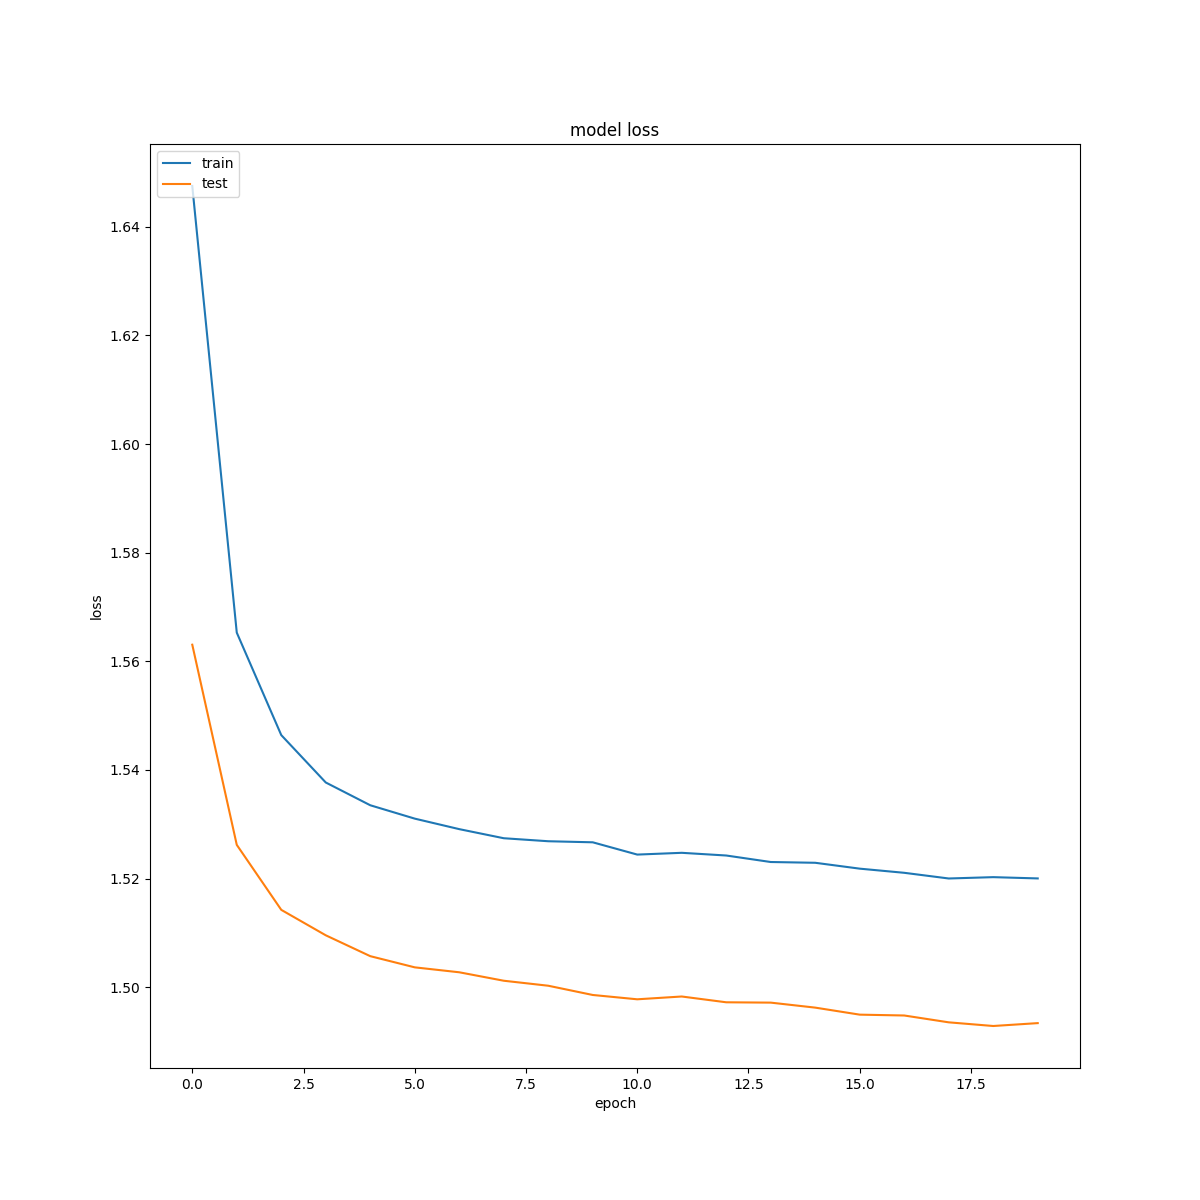
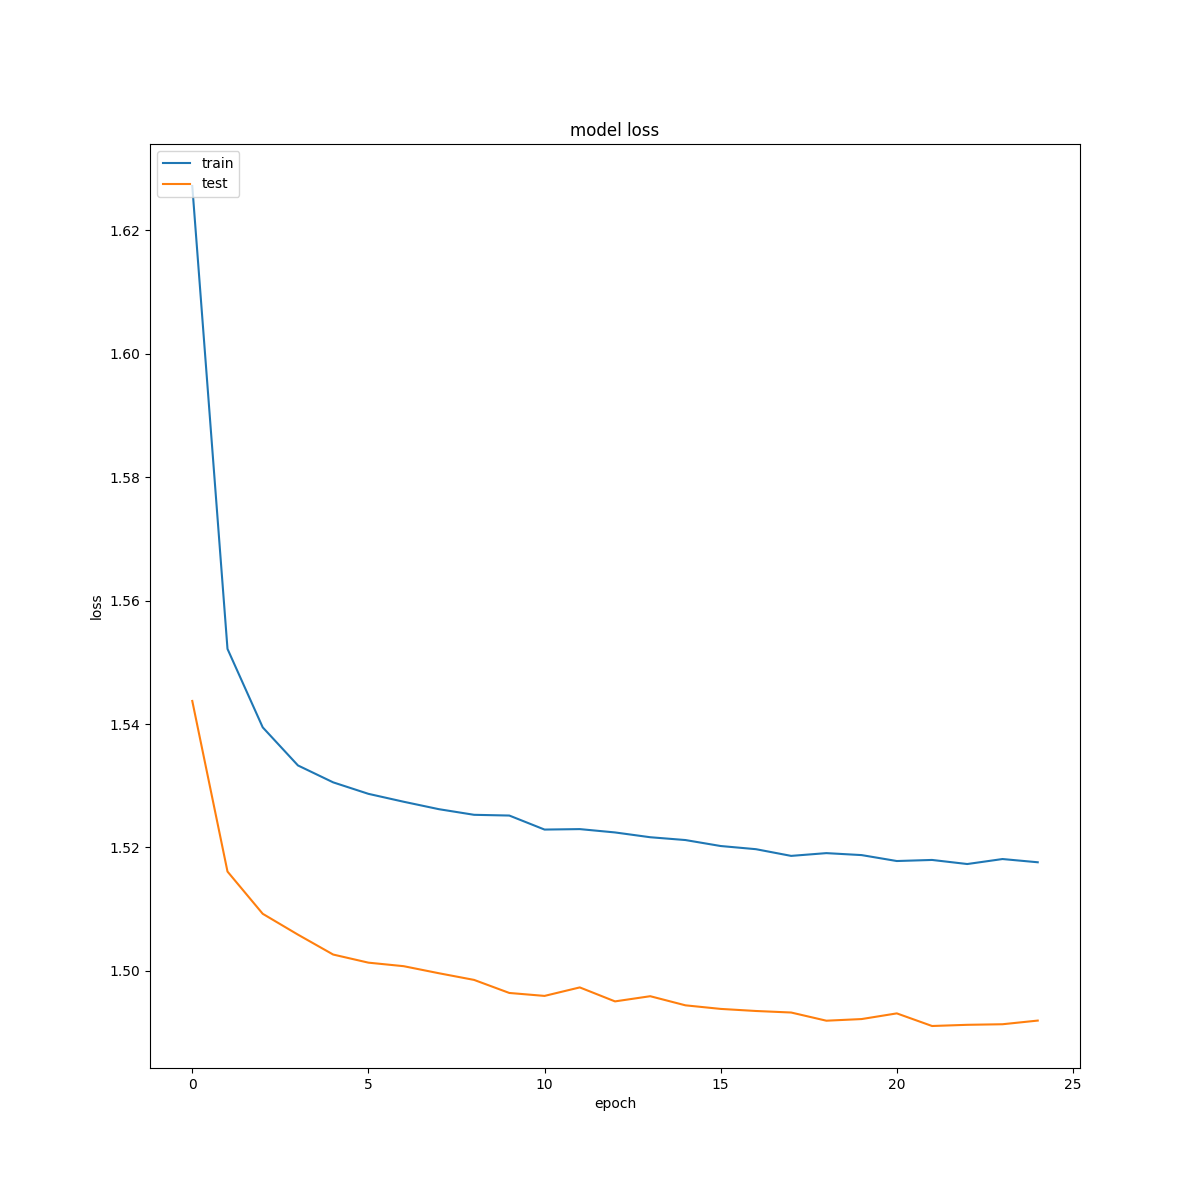
mfa com 31%

diff --git a/domain/next_poi_category_prediction_domain.py b/domain/next_poi_category_prediction_domain.py
@@ -315,7 +315,8 @@ class NextPoiCategoryPredictionDomain:
                                                            num_users=num_users,
                                                            time_input_dim=48,
                                                            seed=seeds[iteration])
-                history, report = self._train_and_evaluate_model(model,
+                history, report = self._train_and_evaluate_model(model_name,
+                                                                 model,
                                                                  X_train,
                                                                  y_train,
                                                                  X_test,
@@ -660,6 +661,7 @@ class NextPoiCategoryPredictionDomain:
                 return GARG()
 
     def _train_and_evaluate_model(self,
+                                  model_name,
                                   model,
                                   X_train,
                                   y_train,
@@ -674,16 +676,30 @@ class NextPoiCategoryPredictionDomain:
         logdir = output_dir + "logs/fit/" + dt.datetime.now().strftime("%Y%m%d-%H%M%S")
         tensorboard_callback = tf.keras.callbacks.TensorBoard(log_dir=logdir)
 
-        model.compile(optimizer=parameters['optimizer'], loss=parameters['loss'],
-                      metrics=tf.keras.metrics.CategoricalAccuracy(name="acc"))
-        #print("Quantidade de instâncias de entrada (train): ", np.array(X_train).shape)
-        #print("Quantidade de instâncias de entrada (test): ", np.array(X_test).shape)
-        hi = model.fit(X_train,
-                       y_train,
-                       validation_data=(X_test, y_test),
-                       batch_size=batch,
-                       epochs=epochs,
-                       callbacks=EarlyStopping(patience=3, restore_best_weights=True))
+        if model_name not in ['garg']:
+            model.compile(optimizer=parameters['optimizer'], loss=parameters['loss'],
+                          metrics=tf.keras.metrics.CategoricalAccuracy(name="acc"))
+            #print("Quantidade de instâncias de entrada (train): ", np.array(X_train).shape)
+            #print("Quantidade de instâncias de entrada (test): ", np.array(X_test).shape)
+            hi = model.fit(X_train,
+                           y_train,
+                           validation_data=(X_test, y_test),
+                           batch_size=batch,
+                           epochs=epochs,
+                           callbacks=EarlyStopping(patience=3, restore_best_weights=True))
+        else:
+            loss_fn = tf.keras.losses.CategoricalCrossentropy()
+
+            # Training step
+            @tf.function
+            def train():
+                with tf.GradientTape() as tape:
+                    predictions = model(X_train, training=True)
+                    loss = loss_fn(y_train, predictions)
+                    loss += sum(model.losses)
+                gradients = tape.gradient(loss, model.trainable_variables)
+                parameters['optimizer'].apply_gradients(zip(gradients, model.trainable_variables))
+                return loss
 
         #print("summary: ", model.summary())
         # print("history: ", h)

diff --git a/configuration/next_poi_category_prediciton_configuration.py b/configuration/next_poi_category_prediciton_configuration.py
@@ -15,7 +15,7 @@ class NextPoiCategoryPredictionConfiguration:
         self.N_SPLITS = ("n_splits", 5)
 
         self.EPOCHS = ("epochs", {'users_steps': {'mfa': 10, 'serm': 10, 'map': 10, 'stf': 10, 'next': 10, 'garg': 10},
-                                'gowalla': {'mfa': 20, 'serm': 20, 'map': 20, 'stf': 20, 'next': 11, 'garg': 20}})
+                                'gowalla': {'mfa': 25, 'serm': 20, 'map': 20, 'stf': 20, 'next': 11, 'garg': 20}})
 
         self.N_REPLICATIONS = ("n_replications", 1)
 
@@ -24,7 +24,7 @@ class NextPoiCategoryPredictionConfiguration:
 
         self.OPTIMIZER = ("learning_rate", {'users_steps': {'mfa': Adam(), 'serm': Adam(), 'map': Adam(), 'stf': Adam(),
                                             'next': Adam(), 'garg': Adam()},
-                                            'gowalla': {'mfa': Adam(learning_rate=0.0007, beta_1=0.8, beta_2=0.9), 'serm': Adam(learning_rate=0.0007, beta_1=0.8, beta_2=0.9), 'map': Adam(learning_rate=0.0007, beta_1=0.8, beta_2=0.9), 'stf': Adam(learning_rate=0.0007, beta_1=0.8, beta_2=0.9),
+                                            'gowalla': {'mfa': Adam(learning_rate=0.001, beta_1=0.8, beta_2=0.9), 'serm': Adam(learning_rate=0.0007, beta_1=0.8, beta_2=0.9), 'map': Adam(learning_rate=0.0007, beta_1=0.8, beta_2=0.9), 'stf': Adam(learning_rate=0.0007, beta_1=0.8, beta_2=0.9),
                                             'next': Adam(learning_rate=0.0007, beta_1=0.8, beta_2=0.9), 'garg': Adam(learning_rate=0.0007, beta_1=0.8, beta_2=0.9)}})
 
         self.LOSS = ("learning_rate", {'mfa': CategoricalCrossentropy(), 'serm': CategoricalCrossentropy(), 'map': CategoricalCrossentropy(),
